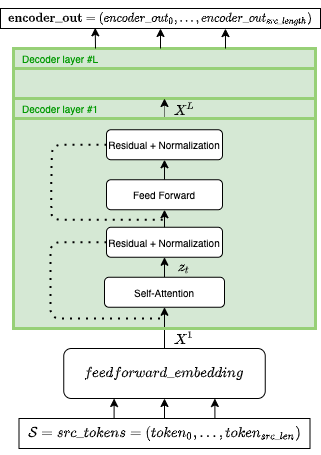
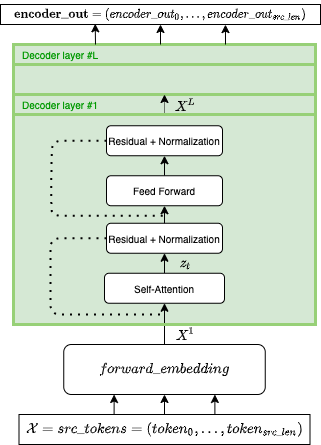
diagrams improvement

diff --git a/index.html b/index.html
@@ -11840,7 +11840,7 @@ $( document ).ready(function(){
 </div>
 <div class="inner_cell">
 <div class="text_cell_render border-box-sizing rendered_html">
-<p>The Transformer is based on a stack of encoders and another stack of decoders. The encoder maps an input sequence of tokens $src\_tokens=(token_{0},...,token_{src\_len})$ to a sequence of continuous vector representations $\mathbf{encoder\_out} = (encoder\_out_1, ..., encoder\_out_{src\_length})$. Given $\mathbf{encoder\_out}$, the decoder then generates an output sequence $\mathcal{Y} = (output_0,...,output_{tgt\_length})$ of symbols one element at a time. At each step the model is auto-regressive, consuming the previously generated symbols as additional input when generating the next token.</p>
+<p>The Transformer is based on a stack of encoders and another stack of decoders. The encoder maps an input sequence of tokens $\mathcal{X}=src\_tokens=(token_{0},...,token_{src\_len})$ to a sequence of continuous vector representations $\mathbf{encoder\_out} = (encoder\_out_1, ..., encoder\_out_{src\_len})$. Given $\mathbf{encoder\_out}$, the decoder then generates an output sequence $\mathcal{Y} = (output_0,...,output_{T})$ of symbols one element at a time. At each step the model is auto-regressive, consuming the previously generated symbols as additional input when generating the next token.</p>
 
 </div>
 </div>
@@ -11919,7 +11919,7 @@ $( document ).ready(function(){
 <div class="inner_cell">
 <div class="text_cell_render border-box-sizing rendered_html">
 <h2 id="Encoder">Encoder<a class="anchor-link" href="#Encoder">&#182;</a></h2><p>The encoder (<code class="language-plaintext highlighter-rouge">TransformerEncoder</code>) is composed of a stack of $N=encoder\_layers$ identical layers.</p>
-<p>The encoder recieves a list of tokens $\mathcal{X}=src\_tokens=(token_{0},...,token_{src\_len})$ which are then converted to continuous vector representions <code class="language-plaintext highlighter-rouge">x = self.forward_embedding(src_tokens, token_embeddings)</code>, which is the sum of the (scaled) embedding lookup and the positional embedding: <code class="language-plaintext highlighter-rouge">x = self.embed_scale * self.embed_tokens(src_tokens) + self.embed_positions(src_tokens)</code>.</p>
+<p>The encoder recieves a list of tokens $\mathcal{X}=$<code class="language-plaintext highlighter-rouge">src_tokens</code>$=(token_{0},...,token_{src\_len})$ which are then converted to continuous vector representions <code class="language-plaintext highlighter-rouge">x = self.forward_embedding(src_tokens, token_embeddings)</code>, which is the sum of the (scaled) embedding lookup and the positional embedding: <code class="language-plaintext highlighter-rouge">x = self.embed_scale * self.embed_tokens(src_tokens) + self.embed_positions(src_tokens)</code>.</p>
 
 </div>
 </div>
@@ -11928,7 +11928,7 @@ $( document ).ready(function(){
 </div>
 <div class="inner_cell">
 <div class="text_cell_render border-box-sizing rendered_html">
-<p>From now on, let's consider $X^L$ as the $L$ encoder layer input sequence. $X^{1}$ refers then to the vectors representation of the input sequence tokens of the first layer, after computing <code class="language-plaintext highlighter-rouge">self.forward_embedding</code> on $src\_tokens$.</p>
+<p>From now on, let's consider $X^L$ as the $L$ encoder layer input sequence. $X^{1}$ refers then to the vectors representation of the input sequence tokens of the first layer, after computing <code class="language-plaintext highlighter-rouge">self.forward_embedding</code> on <code class="language-plaintext highlighter-rouge">src_tokens</code>.</p>
 
 </div>
 </div>
@@ -11937,7 +11937,7 @@ $( document ).ready(function(){
 </div>
 <div class="inner_cell">
 <div class="text_cell_render border-box-sizing rendered_html">
-<p><img src="The_Transformer_Blog_files/operations.png" style="width:500px;height:150px;" align="center"/></p>
+<p><img src="The_Transformer_Blog_files/operations.png" style="width:450px;height:120px;" align="center"/></p>
 
 </div>
 </div>
@@ -11946,7 +11946,7 @@ $( document ).ready(function(){
 </div>
 <div class="inner_cell">
 <div class="text_cell_render border-box-sizing rendered_html">
-<p>Note that although $X^L$ is represented in fairseq as a tensor of shape <code class="language-plaintext highlighter-rouge">src_length x batch x encoder_embed_dim</code>, for the shake of simplicity, we take <code class="language-plaintext highlighter-rouge">batch=1</code> in the upcoming mathematical notation and just consider it as a <code class="language-plaintext highlighter-rouge">src_length x encoder_embed_dim</code> matrix.</p>
+<p>Note that although $X^L$ is represented in fairseq as a tensor of shape <code class="language-plaintext highlighter-rouge">src_len x batch x encoder_embed_dim</code>, for the shake of simplicity, we take <code class="language-plaintext highlighter-rouge">batch=1</code> in the upcoming mathematical notation and just consider it as a <code class="language-plaintext highlighter-rouge">src_len x encoder_embed_dim</code> matrix.</p>
 
 </div>
 </div>
@@ -11959,7 +11959,7 @@ $( document ).ready(function(){
 X^L = \begin{bmatrix}
 x_{0}\\
 \vdots\\
-x_{src\_length}
+x_{src\_len}
 \end{bmatrix}
 $$</p>
 <p>Where $x_{i} \in \mathbb{R}^{encoder\_embed\_dim}$.</p>
@@ -12024,10 +12024,10 @@ $$</p>
 <div class="text_cell_render border-box-sizing rendered_html">
 <p>This returns a NamedTuple object <code class="language-plaintext highlighter-rouge">encoder_out</code>.</p>
 <ul>
-<li>encoder_out: of shape <code class="language-plaintext highlighter-rouge">src_length x batch x encoder_embed_dim</code>, the last layer encoder's embedding which, as we will see, is used by the Decoder. Note that is the same as $X^{N+1}$ when <code class="language-plaintext highlighter-rouge">batch=1</code>.</li>
-<li>encoder_padding_mask: of shape <code class="language-plaintext highlighter-rouge">batch x src_length</code>. Binary ByteTensor where padding elements are indicated by 1.</li>
-<li>encoder_embedding: of shape <code class="language-plaintext highlighter-rouge">src_length x batch x encoder_embed_dim</code>, the words (scaled) embedding lookup.</li>
-<li>encoder_states: of shape <code class="language-plaintext highlighter-rouge">list[src_length x batch x encoder_embed_dim]</code>, intermediate enocoder layer's output.</li>
+<li>encoder_out: of shape <code class="language-plaintext highlighter-rouge">src_len x batch x encoder_embed_dim</code>, the last layer encoder's embedding which, as we will see, is used by the Decoder. Note that is the same as $X^{N+1}$ when <code class="language-plaintext highlighter-rouge">batch=1</code>.</li>
+<li>encoder_padding_mask: of shape <code class="language-plaintext highlighter-rouge">batch x src_len</code>. Binary ByteTensor where padding elements are indicated by 1.</li>
+<li>encoder_embedding: of shape <code class="language-plaintext highlighter-rouge">src_len x batch x encoder_embed_dim</code>, the words (scaled) embedding lookup.</li>
+<li>encoder_states: of shape <code class="language-plaintext highlighter-rouge">list[src_len x batch x encoder_embed_dim]</code>, intermediate enocoder layer's output.</li>
 </ul>
 
 </div>
@@ -12256,7 +12256,7 @@ $$</p>
 <div class="inner_cell">
 <div class="text_cell_render border-box-sizing rendered_html">
 <p>Given a token in the input sequence, $i \in X^L$, its query vector $q_{i}$ is passed to the self-attention function. Then, by means of dot products, scalar values (scores) are obtained between the query vector $q_{i}$ and every key vector of the input sequence $k_{j} \forall j \in X^L$. The intuition is that this performs a similarity operation, similar queries and keys vectors will yield higher scores.</p>
-<p>This scores represents how much attention is paid by the self-attention layer to other parts of the sequence when encoding $i$. By multiplying $q_{i}$ by the matrix $K^{T}$, a list of <code class="language-plaintext highlighter-rouge">src_length</code> scores is output. The scores are then passed through a softmax function giving bounded values:</p>
+<p>This scores represents how much attention is paid by the self-attention layer to other parts of the sequence when encoding $i$. By multiplying $q_{i}$ by the matrix $K^{T}$, a list of <code class="language-plaintext highlighter-rouge">src_len</code> scores is output. The scores are then passed through a softmax function giving bounded values:</p>
 <p>$$\alpha_{i} = \text{softmax}(\frac{\mathbf{q}_i {K}^\top}{\sqrt{d_k}})
 = \frac{\exp(\frac{\mathbf{q}_i {K}^\top}{\sqrt{d_k}})}{ \sum_{j \in X^L} \exp(\frac{\mathbf{q}_i k_{j}^\top}{\sqrt{d_k}})}$$</p>
 
@@ -12390,8 +12390,9 @@ $$</p>
 <div class="inner_cell">
 <div class="text_cell_render border-box-sizing rendered_html">
 <h2 id="Decoder">Decoder<a class="anchor-link" href="#Decoder">&#182;</a></h2><p>The decoder is composed of a stack of $N=decoder\_layers$ identical layers.</p>
-<p>The <code class="language-plaintext highlighter-rouge">TransformerDecoder</code> inherits from <code class="language-plaintext highlighter-rouge">FairseqIncrementalDecoder</code>. It differs from the encoder in that it performs incremental decoding. This means that at each time step a forward pass is done through the decoder generating one output token, which is then fed as input to the next time step decoding forward process. Especifically, it takes the encoder's output <code class="language-plaintext highlighter-rouge">encoder_out.encoder_out</code> as $key$ and $value$ matrices (in every decoder layer) and <code class="language-plaintext highlighter-rouge">prev_output_tokens</code> to generate one feature vector per target token at each time step (<code class="language-plaintext highlighter-rouge">tgt_len = 1</code> in each forward pass). This feature vector is then passed through a linear layer together with a softmax activation function <code class="language-plaintext highlighter-rouge">self.output_layer(x)</code> to get a probability distribution over the target language vocabulary.</p>
-<p>Following the beam search algorithm, top <code class="language-plaintext highlighter-rouge">beam</code> hypothesis are chosen and inserted as input of the decoder (<code class="language-plaintext highlighter-rouge">prev_output_tokens</code>) for the next time step.</p>
+<p>The goal of the decoder is to generate a sequence $\mathcal{Y}$ in the target language. The <code class="language-plaintext highlighter-rouge">TransformerDecoder</code> inherits from <code class="language-plaintext highlighter-rouge">FairseqIncrementalDecoder</code>. It differs from the encoder in that it performs incremental decoding. This means that at each time step $t$ a forward pass is done through the decoder generating $output_{t}$, which is then fed as input to the next time step decoding process.</p>
+<p>The encoder output <code class="language-plaintext highlighter-rouge">encoder_out.encoder_out</code> is used by the decoder (in each layer) together with $\mathcal{Y&lt;t}=(output_{0},...,output_{t-1})$ (<code class="language-plaintext highlighter-rouge">prev_output_tokens</code>) to generate one feature vector per target token at each time step (<code class="language-plaintext highlighter-rouge">tgt_len = 1</code> in each forward pass). This feature vector is then passed through a linear layer together with a softmax activation function <code class="language-plaintext highlighter-rouge">self.output_layer(x)</code> to get a probability distribution over the target language vocabulary.</p>
+<p>Following the beam search algorithm, top <code class="language-plaintext highlighter-rouge">beam</code> hypothesis are chosen and inserted in the batch dimension input of the decoder (<code class="language-plaintext highlighter-rouge">prev_output_tokens</code>) for the next time step.</p>
 
 </div>
 </div>
@@ -12401,6 +12402,15 @@ $$</p>
 <div class="inner_cell">
 <div class="text_cell_render border-box-sizing rendered_html">
 <p><img src="The_Transformer_Blog_files/decoder_javifer.png" style="width:400px;height:500px;" align="center"/></p>
+
+</div>
+</div>
+</div>
+<div class="cell border-box-sizing text_cell rendered"><div class="prompt input_prompt">
+</div>
+<div class="inner_cell">
+<div class="text_cell_render border-box-sizing rendered_html">
+<p>We consider $Y^L$ as the $L$ decoder layer input sequence. $Y^{1}$ refers then to the matrix representation of the input sequence tokens of the first layer, after computing <code class="language-plaintext highlighter-rouge">self.forward_embedding</code> on <code class="language-plaintext highlighter-rouge">prev_output_tokens</code>. Note that here <code class="language-plaintext highlighter-rouge">self.forward_embedding</code> is not defined, but we refer to <code class="language-plaintext highlighter-rouge">self.embed_tokens(prev_output_tokens)</code> and <code class="language-plaintext highlighter-rouge">self.embed_tokens(prev_output_tokens)</code>.</p>
 
 </div>
 </div>
@@ -12476,8 +12486,7 @@ $$</p>
 </div>
 <div class="inner_cell">
 <div class="text_cell_render border-box-sizing rendered_html">
-<p>In the first time step, <code class="language-plaintext highlighter-rouge">prev_output_tokens</code> represents the beginning of sentence (BOS) token index. Its embedding <code class="language-plaintext highlighter-rouge">self.embed_tokens(prev_output_tokens)</code> enters the decoder as a tensor <code class="language-plaintext highlighter-rouge">beam*batch x tgt_len x encoder_embed_dim</code>. As in the decoder, to the input token is added a positional embedding.</p>
-<p>Let's consider $Y^L$ as the $L$ decoder layer input sequence. $X^{1}$ refers then to the vectors representation of the input sequence tokens of the first layer, after computing <code class="language-plaintext highlighter-rouge">self.forward_embedding</code> on $src\_tokens$.</p>
+<p>In the first time step, <code class="language-plaintext highlighter-rouge">prev_output_tokens</code> represents the beginning of sentence (BOS) token index. Its embedding enters the decoder as a tensor <code class="language-plaintext highlighter-rouge">beam*batch x tgt_len x encoder_embed_dim</code>. As in the case of the encoder, we consider <code class="language-plaintext highlighter-rouge">batch=1</code>.</p>
 
 </div>
 </div>
@@ -12571,7 +12580,7 @@ $$</p>
 </div>
 <div class="inner_cell">
 <div class="text_cell_render border-box-sizing rendered_html">
-<p><img src="The_Transformer_Blog_files/decoder_layer_javifer.png" align="center"/></p>
+<p><img src="The_Transformer_Blog_files/incremental_decoding.png" style="width:400px;height:500px;" align="center"/></p>
 
 </div>
 </div>
@@ -12580,7 +12589,7 @@ $$</p>
 </div>
 <div class="inner_cell">
 <div class="text_cell_render border-box-sizing rendered_html">
-<p>In addition to the two sub-layers in each encoder layer, the decoder inserts a third sub-layer (Encoder-Decoder Attention), which performs multi-head attention over the output of the encoder stack as $key$ and $value$ matrices and the ouput of the self-attention module.  Similar to the encoder, it employs residual connections around each of the sub-layers, followed by layer normalization.</p>
+<p>In addition to the two sub-layers in each encoder layer, the decoder inserts a third sub-layer (Encoder-Decoder Attention), which performs multi-head attention over the output of the encoder stack as input for $W^{K}$ and $W^{V}$ and the ouput of the sprevious module $z_{t}*$.  Similar to the encoder, it employs residual connections around each of the sub-layers, followed by layer normalization.</p>
 
 </div>
 </div>
@@ -12635,8 +12644,8 @@ $$</p>
 </div>
 <div class="inner_cell">
 <div class="text_cell_render border-box-sizing rendered_html">
-<p>During incremental decoding, <code class="language-plaintext highlighter-rouge">prev_output_tokens</code> $(output_{0},...,output_{t-1})$ enter the self-attention module as key and value vectors. However, only the last time step output token, $output_{t-1}$, enters as a query vector. So, query vectors now have one element in the second dimension, that is, there is no need to use matrix $Q$.
-As before, scalar values (scores) are obtained between the query vector $q_{t-1}$ and every key vector of the whole previous tokens sequence $k_{j} \forall j \in Y$.</p>
+<p>During incremental decoding, <code class="language-plaintext highlighter-rouge">prev_output_tokens</code> $(output_{0},...,output_{t-2})$ enter the self-attention module as key and value vectors that are stored in <code class="language-plaintext highlighter-rouge">saved_state</code>. Since there is no need to recompute $K$ snd $V$, incremental decoding caches these values. The last time step output token, $output_{t-1}$, enters as a query vector after been embedded. So, query vectors now have one element in the second dimension, that is, there is no need to use matrix $Q$ notation.
+As before, scalar values (scores) are obtained between the query vector $q_{t-1}$ and every key vector of the whole previous tokens sequence $k_{j} \forall j \in Y^L$.</p>
 
 </div>
 </div>
@@ -12654,9 +12663,6 @@ As before, scalar values (scores) are obtained between the query vector $q_{t-1}
 </div>
 <div class="inner_cell">
 <div class="text_cell_render border-box-sizing rendered_html">
-<p>$$
-z_{t} = \sum_{j \in \mathcal{Y&lt;t}}\alpha_{t,j}v_{j}
-$$</p>
 <p>Now, just one vector $z_{t}$ is generated at each time step by each head as a weighted average of the $v$ vectors. The</p>
 
 </div>
